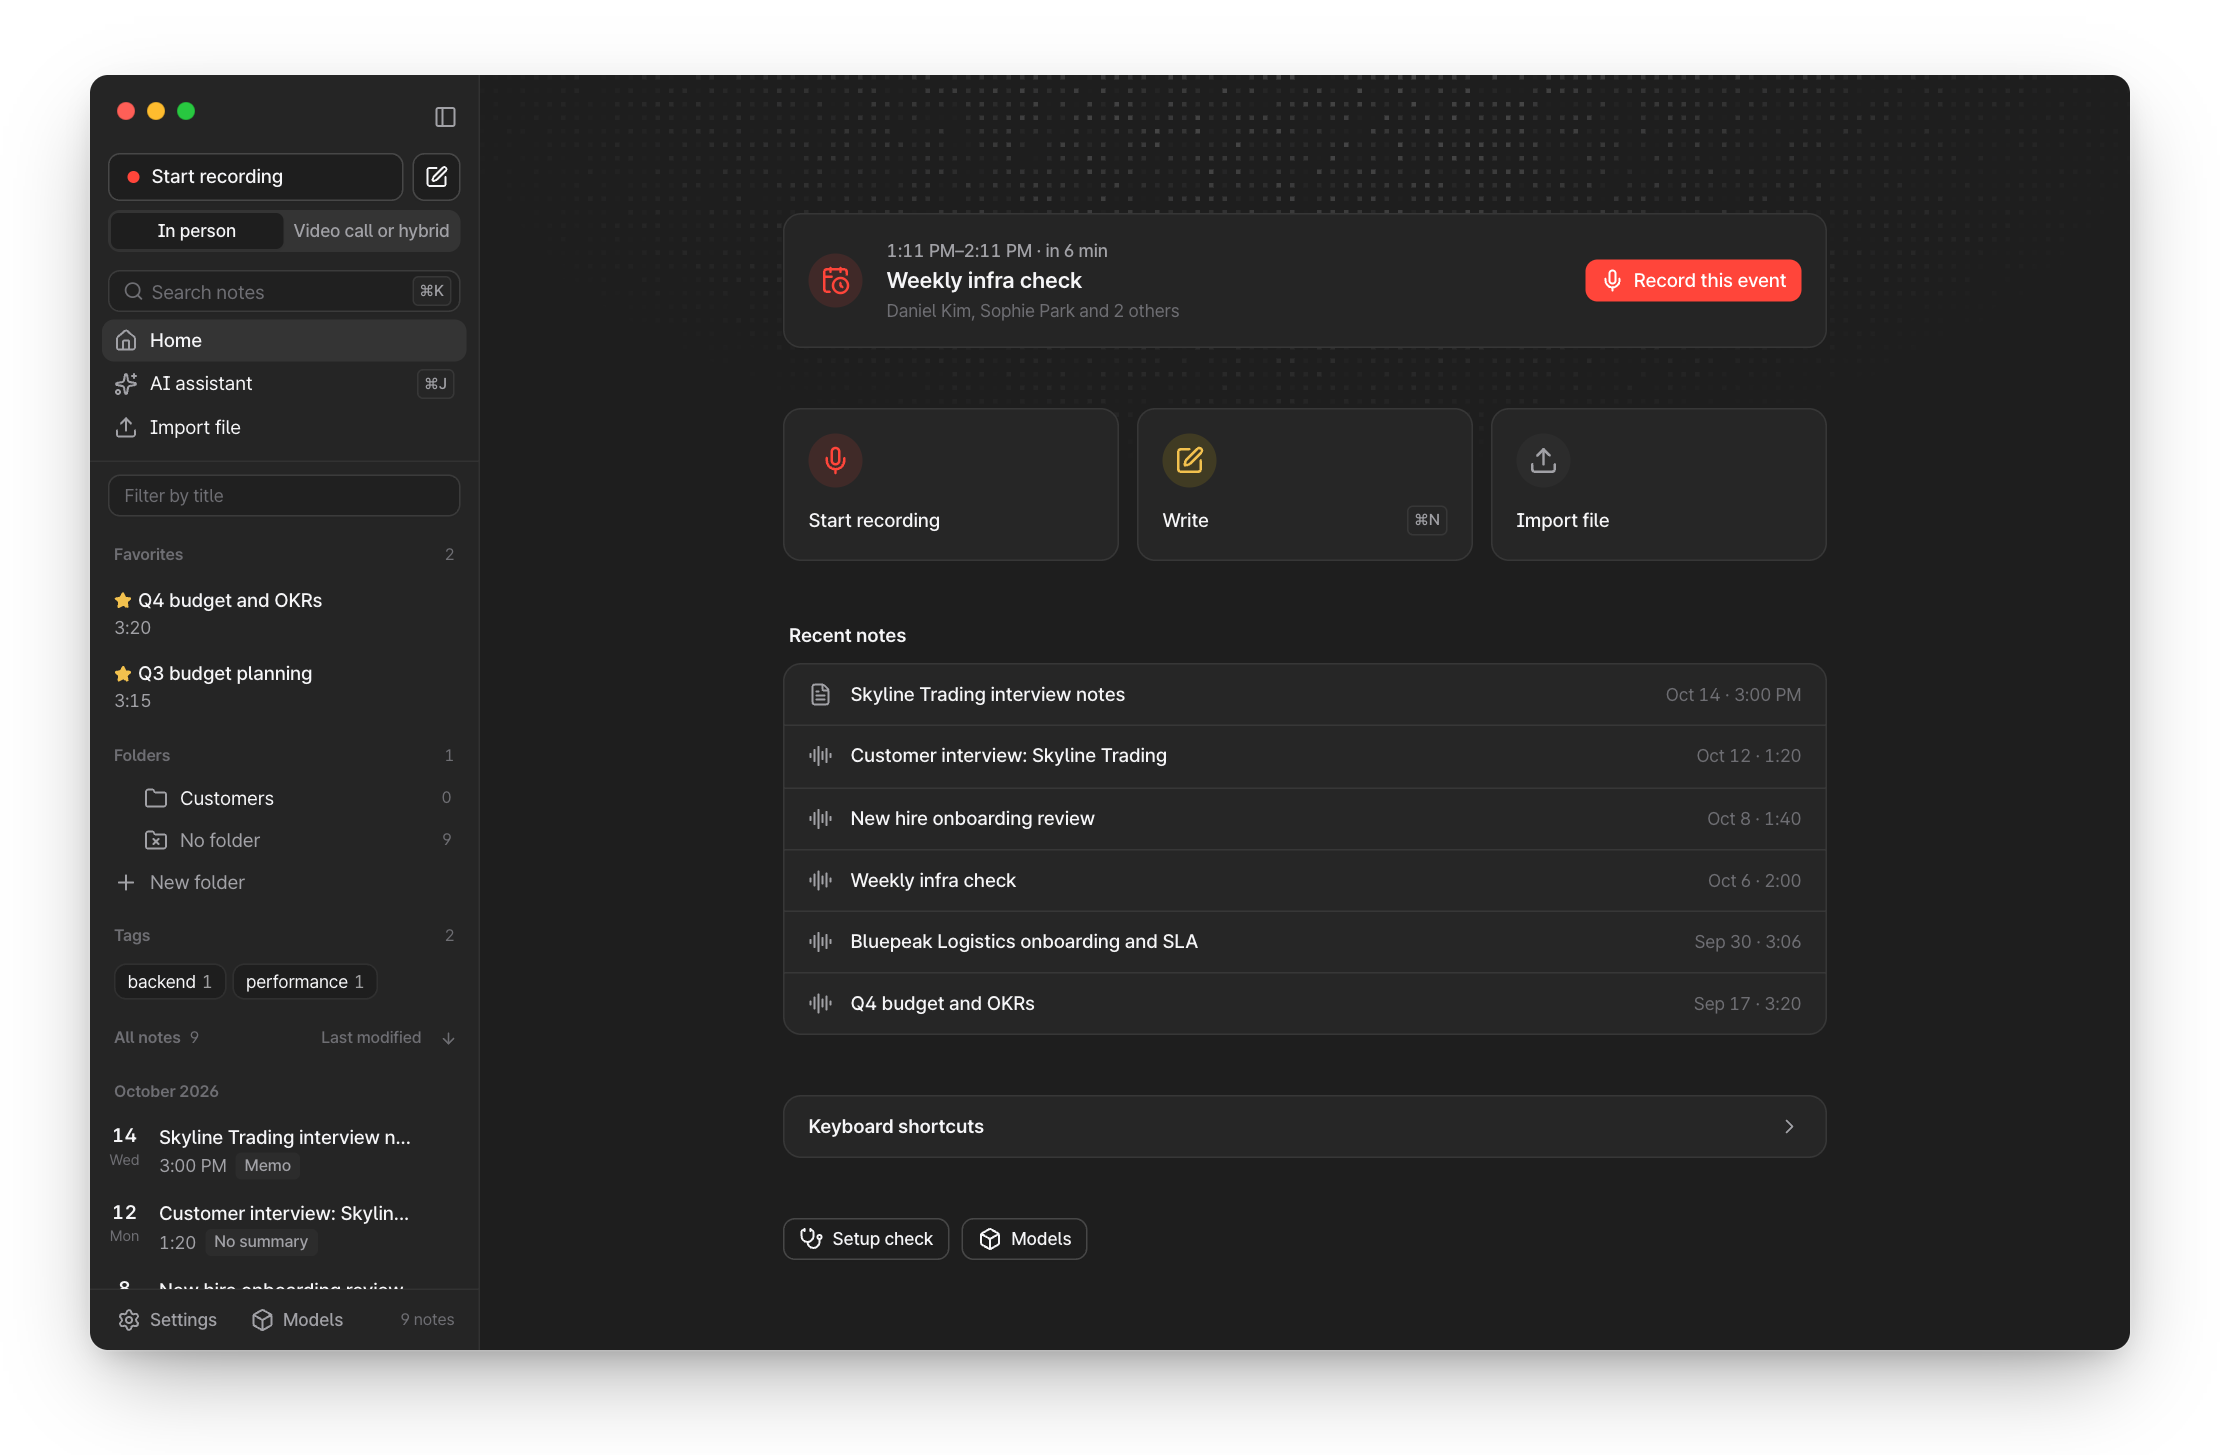
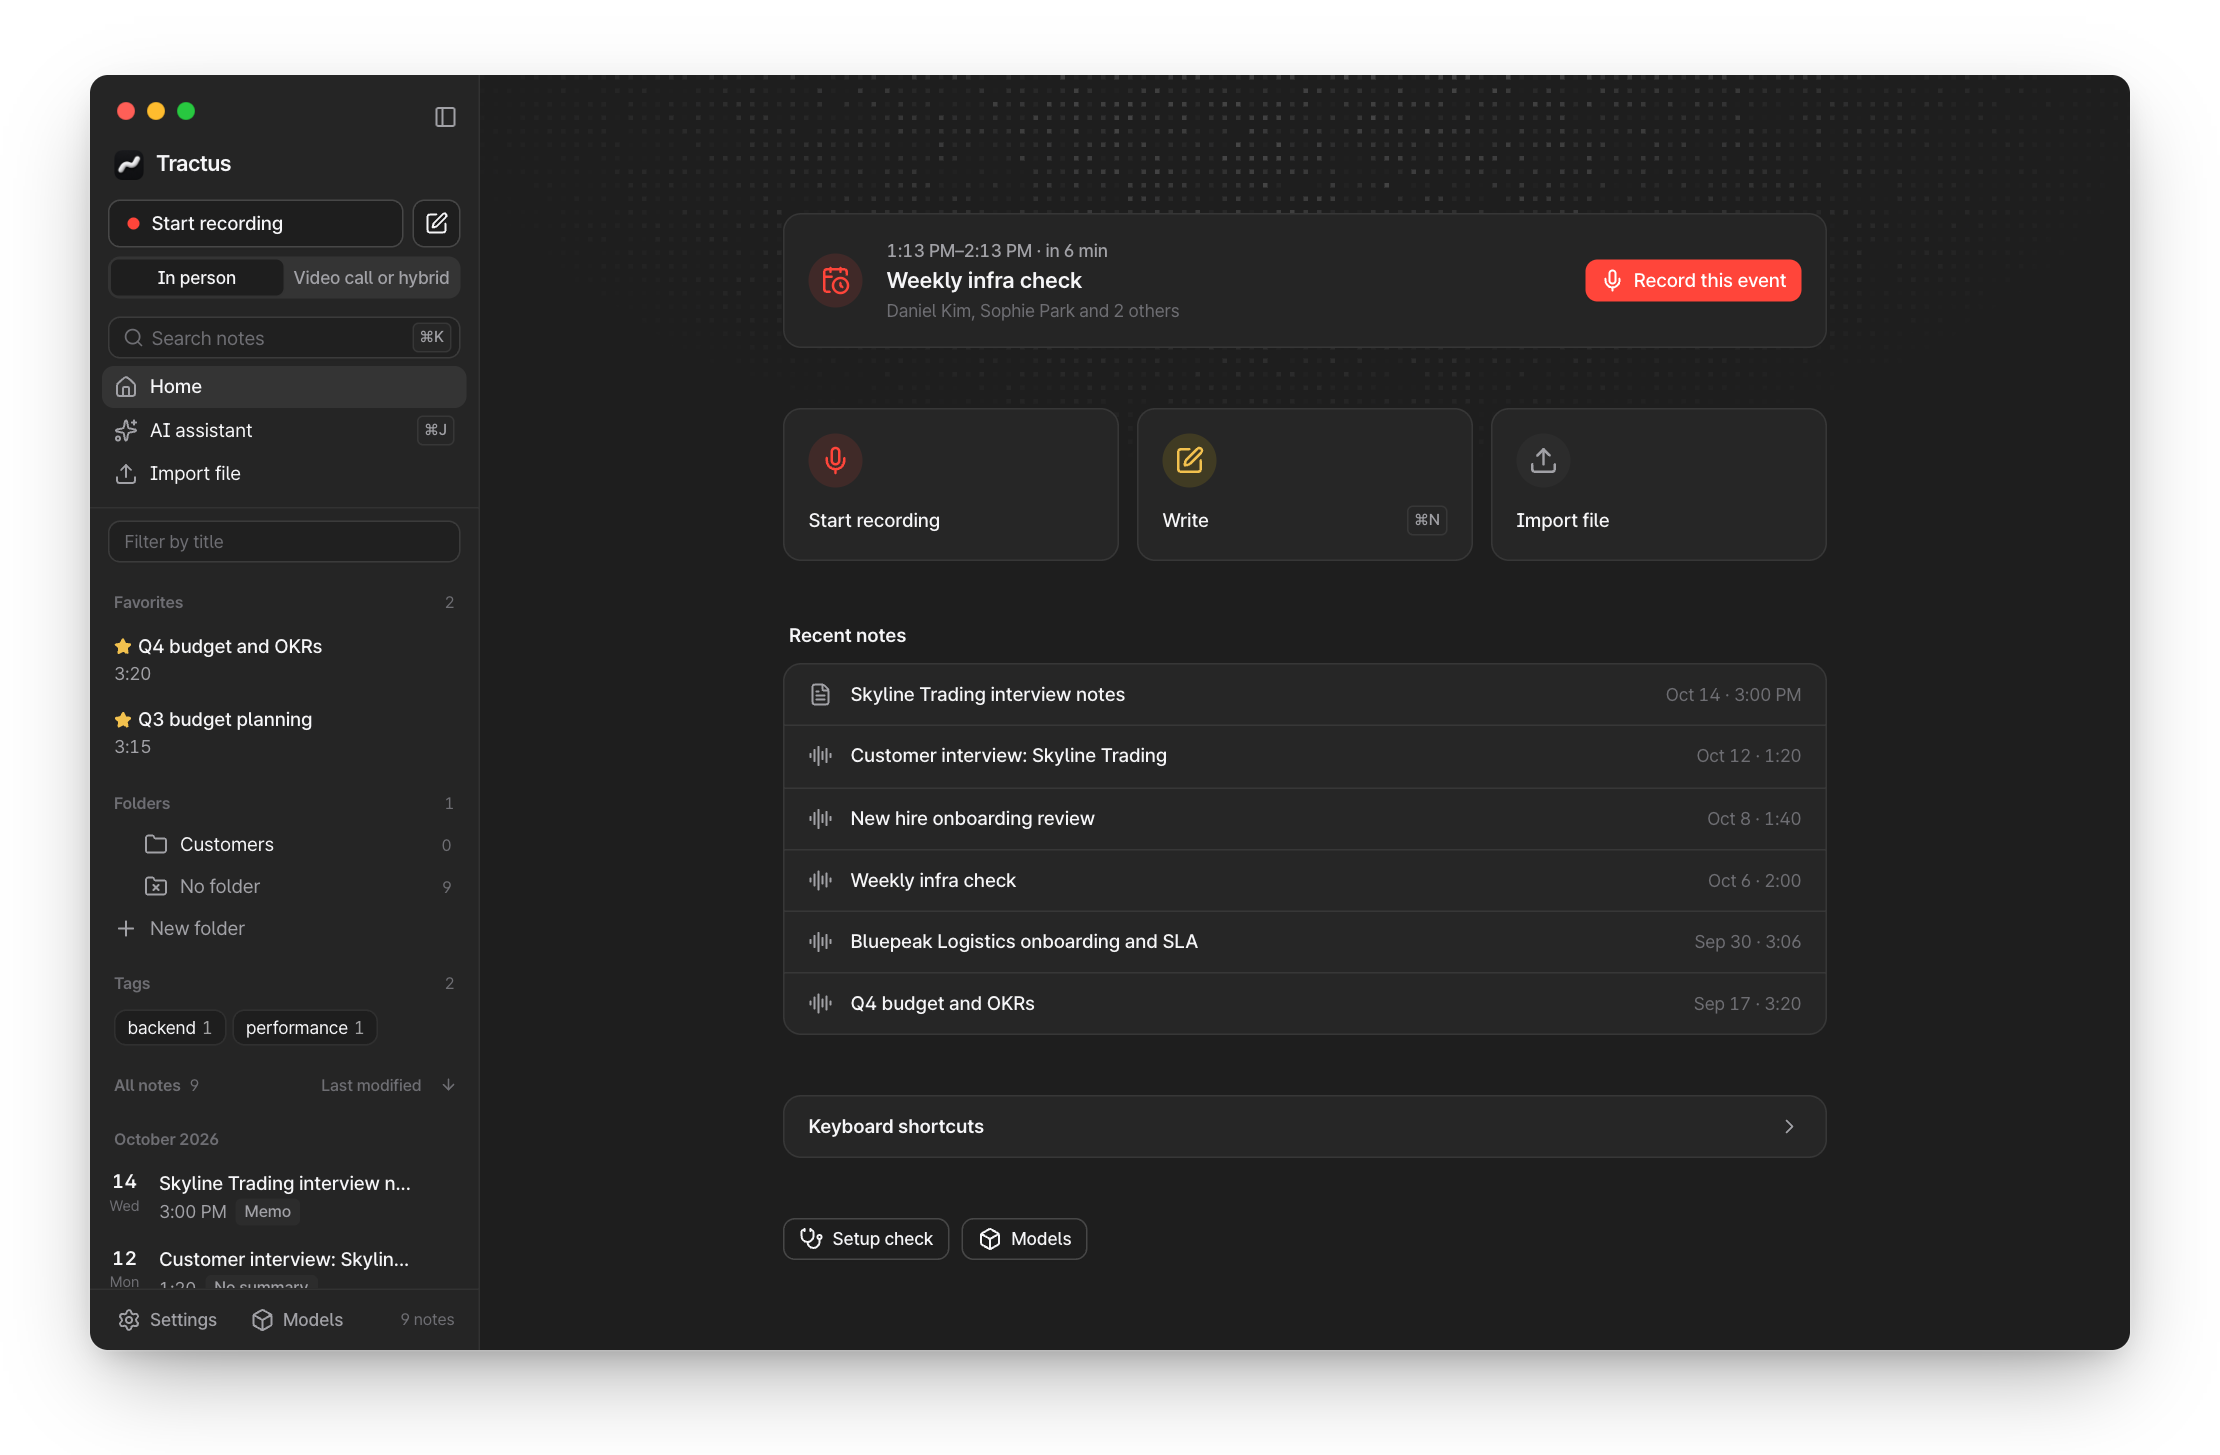
chore: 0.5.0 릴리스 준비
버전 0.5.0 (tauri.conf.json·Cargo.toml·package.json·pyproject.toml·plugin.json + 잠금 파일).
0.4.4 이후: 변환 중에도 녹음, 내보내기에서 넣을 내용 고르기, 새 버전 안내 창,
떠 있는 녹음 추가 단추, 새 아이콘과 사이드바 로고.
README 스크린샷을 새 아이콘으로 다시 찍었다. 릴리스 노트 docs/releases/v0.5.0.md, 로드맵, ARCHITECTURE v3.73.

diff --git a/docs/releases/v0.5.0.md b/docs/releases/v0.5.0.md
@@ -1,0 +1,64 @@
+---
+version: 0.5.0
+date: 2026-10-29
+summary: 앞 녹음을 변환하는 동안에도 다음 녹음을 시작할 수 있고, Markdown·Word로 내보낼 때 넣을 요약과 내용을 고릅니다. 새 아이콘과 새 버전 안내 창도 더했습니다.
+summary_en: You can now start the next recording while the last one is still converting, and choose which summaries and content go into a Markdown or Word export. Also a new icon and a new-version window.
+---
+# Tractus v0.5.0
+
+녹음과 메모를 내 Mac 안에서 텍스트로 바꾸고, 요약·검색·AI 질문까지 가능한 앱입니다. 이번 버전은 연달아 하는 대면 회의를 놓치지 않게 하고, 내보내기를 원하는 대로 고를 수 있게 했습니다. 앱 아이콘도 새로 바꿨습니다. (English below)
+
+## 이번 버전에서 바뀐 것
+
+- **변환 중에도 녹음합니다.** 앞 녹음을 텍스트로 바꾸는 동안 다음 녹음을 바로 시작할 수 있습니다. 연달아 이어지는 대면 회의를 그대로 녹음하세요.
+  - 변환 중에 끝난 녹음은 앞 변환이 끝나면 이어서 변환됩니다. 사이드바에 변환 중인 녹음이 카드로 보입니다.
+  - 녹음하는 동안 앞 변환이 끝나면 화면을 바꾸지 않고 알림만 띄웁니다.
+  - 실시간 텍스트 변환을 켜 두었다면 예전처럼 변환이 끝난 뒤에 녹음합니다. 실시간 텍스트 변환이 변환과 같은 GPU를 나눠 써 밀리기 때문입니다. 설정에서 끄면 변환 중에도 녹음할 수 있습니다.
+- **내보낼 내용을 고릅니다.** Markdown이나 Word로 내보내면 `내보낼 내용 고르기` 창이 열립니다.
+  - 이 노트의 요약(회의록, 완성된 노트, 요약 탭의 요약들)과 대화 내용·메모·녹음 중 메모 가운데 원하는 것을 골라 한 파일에 담습니다.
+  - 지난번에 끈 종류는 기억해 두었다가 다음에도 꺼 둡니다.
+  - 예전에는 요약 탭에서 고른 요약 하나만 들어갔습니다.
+  - Word로 내보낸 회의록에서 세부 줄과 참석 같은 칸이 빠지던 문제를 고쳤습니다.
+- **새 버전을 큰 창으로 알립니다.** 앱을 켜고 새 버전이 있으면 화면 가운데에 릴리스 노트 일부와 함께 창이 뜹니다.
+  - `업데이트 보기`를 누르면 설정의 업데이트 칸으로 바로 가고, `업데이트 설치`가 이미 보입니다.
+  - 같은 버전은 한 번만 크게 띄우고, 녹음 중에는 작은 알림으로 대신합니다. 받기와 설치는 여전히 `업데이트 설치`를 눌러야만 합니다.
+  - 이 창은 0.5.0 다음 업데이트부터 보입니다.
+- **글만 있는 노트에 녹음을 더하는 단추가 노트 아래에 떠 있습니다.** 글을 쓰다가 바로 녹음을 더할 수 있습니다. `파일에서 추가`는 그대로 위쪽에 있습니다.
+- **새 아이콘.** 앱 아이콘을 바꾸고, 사이드바 위에 로고와 이름을 보였습니다. 메뉴 막대 아이콘은 그대로입니다.
+
+## 업데이트·설치
+
+- **v0.1.1 이상을 쓰고 있다면:** 설정 › 업데이트에서 `업데이트 확인` → `업데이트 설치` → `다시 열기`.
+- **새로 설치한다면:** DMG를 열고 `Tractus.app`을 `Applications`로 끌어다 놓습니다.
+  - 처음 열 때 "확인되지 않은 개발자" 경고가 나오면: 시스템 설정 → 개인정보 보호 및 보안 → "그래도 열기" (또는 `xattr -dr com.apple.quarantine /Applications/Tractus.app`)
+  - **ffmpeg가 필요합니다:** `brew install ffmpeg`
+- 노트·모델·설정 파일은 그대로입니다. 앱을 새로 서명했기 때문에 마이크·시스템 오디오 권한을 다시 물을 수 있습니다.
+- Dock과 Finder에 옛 아이콘이 남아 있으면 앱을 한 번 껐다 켜 주세요.
+
+## 받을 파일
+
+| 파일 | 설명 |
+| --- | --- |
+| `Tractus-0.5.0-arm64.dmg` | 설치 파일 (Apple Silicon 전용) |
+| `Tractus-0.5.0-arm64.dmg.sha256` | 체크섬. `shasum -a 256 -c Tractus-0.5.0-arm64.dmg.sha256` |
+| `Tractus.app.tar.gz`, `.sig`, `latest.json` | 앱 안 업데이트가 쓰는 파일입니다. 직접 받을 필요는 없습니다. |
+
+## 요구 사항
+
+- Apple Silicon(M1 이상), 메모리 16GB 이상 권장(8GB는 저사양 구성)
+- macOS 14.4 이상(설계상 최소)
+
+---
+
+## English
+
+Tractus turns recordings and memos into text on your Mac, then summarizes, searches and answers questions about them. **New in 0.5.0: record while converting, pick what goes into an export, and a new icon.**
+
+- **Record while converting.** Start the next recording while the previous one is still being converted, so back-to-back meetings are no problem. Recordings that finish during a conversion wait in line and convert next; a card in the sidebar shows what is converting, and a finished conversion only shows a notice while you record. With live transcription on, recording still waits for the conversion to finish (both share the GPU); turn it off in Settings to record during conversions.
+- **Choose what to export.** Exporting to Markdown or Word opens `Choose what to export`: pick any of the note's summaries (minutes, enhanced note, summaries from the Summary tab) and the transcript, memo and in-recording notes, all in one file. Kinds you turned off are remembered. Before, only the summary chosen on the Summary tab went in. Minutes exported to Word no longer drop detail lines and fields such as attendees.
+- **New versions get a proper window.** When an update is found at launch, a window in the middle of the screen shows part of the release notes; `View update` takes you straight to Settings › Update with `Install update` ready. Each version is shown this way once, and only a small notice appears while recording. Downloading and installing still happen only when you press `Install update`. You will first see this window with the update after 0.5.0.
+- **Add a recording from a floating button** at the bottom of a text-only note. `Add from file` stays at the top.
+- **New icon**, plus the logo and name at the top of the sidebar. The menu bar icon is unchanged.
+- Install: open the DMG and drag `Tractus.app` to `Applications`; you need `brew install ffmpeg`. The build isn't notarized yet — use System Settings › Privacy & Security › Open Anyway on first launch. Apple Silicon, macOS 14.4+. If the Dock or Finder still shows the old icon, quit and reopen the app.
+
+Guides: [Setup](https://github.com/sjoon21/Tractus/blob/main/docs/en/setup.md) · [Usage](https://github.com/sjoon21/Tractus/blob/main/docs/en/usage.md) · [Agents (MCP)](https://github.com/sjoon21/Tractus/blob/main/docs/en/mcp.md)

diff --git a/ARCHITECTURE.md b/ARCHITECTURE.md
@@ -11,6 +11,7 @@
 
 | 날짜 | 버전 | 변경 |
 | --- | --- | --- |
+| 2026-10-29 | v3.73 | **0.5.0 릴리스 준비(브랜치 `release/0.5.0`).** 버전 0.5.0을 다섯 매니페스트(`tauri.conf.json`·`Cargo.toml`·`app/package.json`·`pyproject.toml`·플러그인 `plugin.json`)와 잠금 파일에 맞췄다. 0.4.4 이후: 변환 중에도 녹음(v3.71), 내보내기에서 넣을 내용 고르기(v3.72), 시작 때 새 버전을 큰 창으로 알림, 글만 있는 노트의 떠 있는 녹음 추가 단추, 새 앱 아이콘과 사이드바 로고. 이름은 Tractus 그대로(Oat로 바꾸기는 소유자가 취소). README 스크린샷·데모 GIF를 새 아이콘으로 다시 찍었다. 릴리스 노트 `docs/releases/v0.5.0.md`, 로드맵 항목. |
 | 2026-10-29 | v3.72 | **내보내기에서 넣을 내용 고르기(브랜치 `feat/export-select`).** md·docx에 들어가는 요약이 요약 탭에서 고른 하나(사용자에게 보이지 않음)뿐이었다. 코어 `tractus export --summary KEY …(여러 번) --parts transcript,memo,marks`: `--parts`를 주면 고른 것만 머리 → 요약(준 순서) → 대화 내용(메모 노트는 메모 내용) → 메모 → 녹음 중 메모 순서로 md·docx 같게 쓰고, 빈 부분은 뺀다(변환 전 노트·메모 노트 포함). `--parts`가 없으면 예전과 같다(md 문자열과 docx 문단을 테스트로 고정). 다른 형식에 `--parts`, 모르는 부분, `--parts` 없는 여러 요약, 없는 key는 종료 코드 2. `store.render_markdown`을 머리·본문·메모 절 조각(`markdown_head`·`markdown_body`·`markdown_memo`·`mark_line`)으로 나눠 내보내기가 같은 줄을 쓴다. **회의록 docx를 고쳤다**: 요약 v2 `sections`로 그려서 이름표·세부 줄·접근 방식·참석·다음에 볼 날이 빠지고 이름표만 있는 안건은 제목째 사라졌다 → `minutes` 칸으로 그린다(`--parts` 없는 예전 경로도 바뀌는 유일한 곳). 기본 요약 docx는 예전처럼 `주제`를 넣지 않는다. Rust `export_meeting(…, summaries, parts)`(부분 allowlist, key마다 `is_summary_key`, parts는 md·docx만). 앱: Markdown·Word를 고르면 `내보낼 내용 고르기` 창(`ExportDialog.tsx`, 순수 로직 `exportPick.ts`): 이 노트에 있는 요약(회의록 → 완성된 노트 → 이전 형식의 회의록 → 요약 탭 순서)과 대화 내용·메모·녹음 중 메모, 처음에는 모두, 지난번에 끈 종류는 끈 채로(localStorage `tractus.export`), 하나도 없으면 `내보내기` 막음. 다른 형식과 Obsidian은 그대로. 확인: pytest 907, vitest 664(+6), tsc, cargo 200(+1), 금지어 검사, 미리보기 창 라이트·다크 × 900·1280. |
 | 2026-10-27 | v3.71 | **변환 중에도 녹음(브랜치 `feat/record-while-converting`, 앱만).** 소유자 이슈: 연달아 하는 회의에서 앞 회의를 바로 변환하는 동안(`transcribe --recording`) 새 녹음이 막혀 다음 회의를 녹음하지 못했다. words-ok 막은 근거는 측정이 아니라 조심이었다(녹음 프로그램은 GPU를 쓰지 않는 작은 Swift 프로그램, 녹음과 변환은 다른 폴더). **결정(소유자): 기본은 함께 돈다. 실시간 텍스트 변환을 켜 둔 때만** 자막(0.6B)이 변환(1.7B)과 GPU를 나눠 써 밀리므로 예전처럼 막고 끄는 길을 알린다. `app/src/recordBusy.ts`(`recordBlock`·`convertsWhileRecording`·`LIVE_BLOCKS_RECORD`), App: 바로 변환 대기를 하나(`waitDir`)에서 줄(`waitList`)로 바꾸고 전사 대상 참조는 시작할 때 정한다(변환 중에 끝난 녹음이 앞 변환의 대상을 덮지 않게), 변환 전 노트의 변환은 자막을 켠 녹음일 때만 멈춘다(`pauseConvert`), **노트에 녹음 추가는 전처럼 변환이 끝난 뒤에**(파일에서 추가와 같은 상태 기계라 이번에 바꾸지 않았다), 변환 중에 앞 녹음의 변환이 끝나면 녹음 화면을 떠나지 않고 `열기` 알림, 실패는 녹음 화면에 보이지 않을 때(녹음 중·다음 녹음이 줄에 있음·다른 화면) 알림, 설정을 저장하면 실시간 텍스트 변환 값을 다시 읽는다, 녹음 화면은 녹음하는 동안 앞선 변환의 진행을 보이지 않고 사이드바에 `녹음을 텍스트로 변환` 카드, 녹음 단추는 막을 때만 `변환 중…`, 메뉴 막대는 `recordBlocked`로 `can_record`. 대기 문구 `wait_import`(앞선 파일 변환) → `wait_convert`(앞선 변환). 변환 엔진은 여전히 한 번에 하나다. 확인: vitest 658(+4, 메뉴 막대 기대값 갱신), tsc, cargo 199, 별도 코드 리뷰(줄에 선 다음 녹음이 앞 변환의 실패를 지우는 경우, `useCallback` 안의 낡은 자막 값, 설정 저장 뒤 자막 값을 고침. 두 변환이 함께 도는 경로는 없음). **확인 못 한 것:** 실제 앱에서 녹음 + 1.7B 변환을 함께 돌린 녹음 끊김·발열(측정 없이 소유자 결정), 팬 없는 Air. |
 | 2026-10-23 | v3.70 | **0.4.4 릴리스 준비(브랜치 `feat/polish-v2`, 기능과 한 PR).** 버전 0.4.4를 다섯 매니페스트(`tauri.conf.json`·`Cargo.toml`·`app/package.json`·`pyproject.toml`·플러그인 `plugin.json`)와 잠금 파일에 맞췄다. 0.4.3 이후: AI 프롬프트를 md 파일로(v3.67), 스마트 교정 v2(v3.68), 경량화(v3.69). 릴리스 노트 `docs/releases/v0.4.4.md`, 로드맵 항목. |

diff --git a/docs/roadmap.md b/docs/roadmap.md
@@ -30,6 +30,7 @@
 - [x] 0.4.2: 변환 엔진 고르기·바꾸기·직접 추가(Qwen3-ASR·Whisper·SenseVoice 계열), 녹음 중 메모·북마크 고치기·지우기, 긴 메모 모양 (v3.59~v3.60)
 - [x] 0.4.3: 스마트 교정(AI 교정 제안·줄별 수락·거절), 한국어 숫자 표기 바꾸기, 변환 엔진 BuzzASR(영어 섞인 한국어) (v3.63~v3.65)
 - [x] 0.4.4: 스마트 교정 강화(군말·반복·문장부호·띄어쓰기·맞춤법까지, 녹취록 전체 문맥, 받은 용어를 한 번에 자주 쓰는 단어로), 앱 경량화(설치 698 → 538MB, 업데이트 198 → 154MB, 앱 반응·변환 시작 빨라짐), AI 프롬프트를 md 파일로 (v3.67~v3.69)
+- [x] 0.5.0: 변환 중에도 녹음, 내보내기에서 넣을 요약·내용 고르기, 시작 때 새 버전 안내 창, 글만 있는 노트의 떠 있는 녹음 추가 단추, 새 아이콘 (v3.71~v3.73)
 - [ ] Windows 지원 (MLX를 대신할 런타임, Windows 녹음 프로그램, 설치·서명). 2026-10-22 소유자 결정: macOS에서 충분히 다듬은 뒤로 최대한 미룬다(1.0일 수 있다)
 - [ ] 영어 화면에서 실제 AI 요약·노트 완성 품질 확인
 - [ ] 깨끗한 Mac(새 계정)과 macOS 14.4~15에서 미리 만든 앱 실행, 내려받은 `.dmg`의 Gatekeeper 동작과 권한 이름 확인
